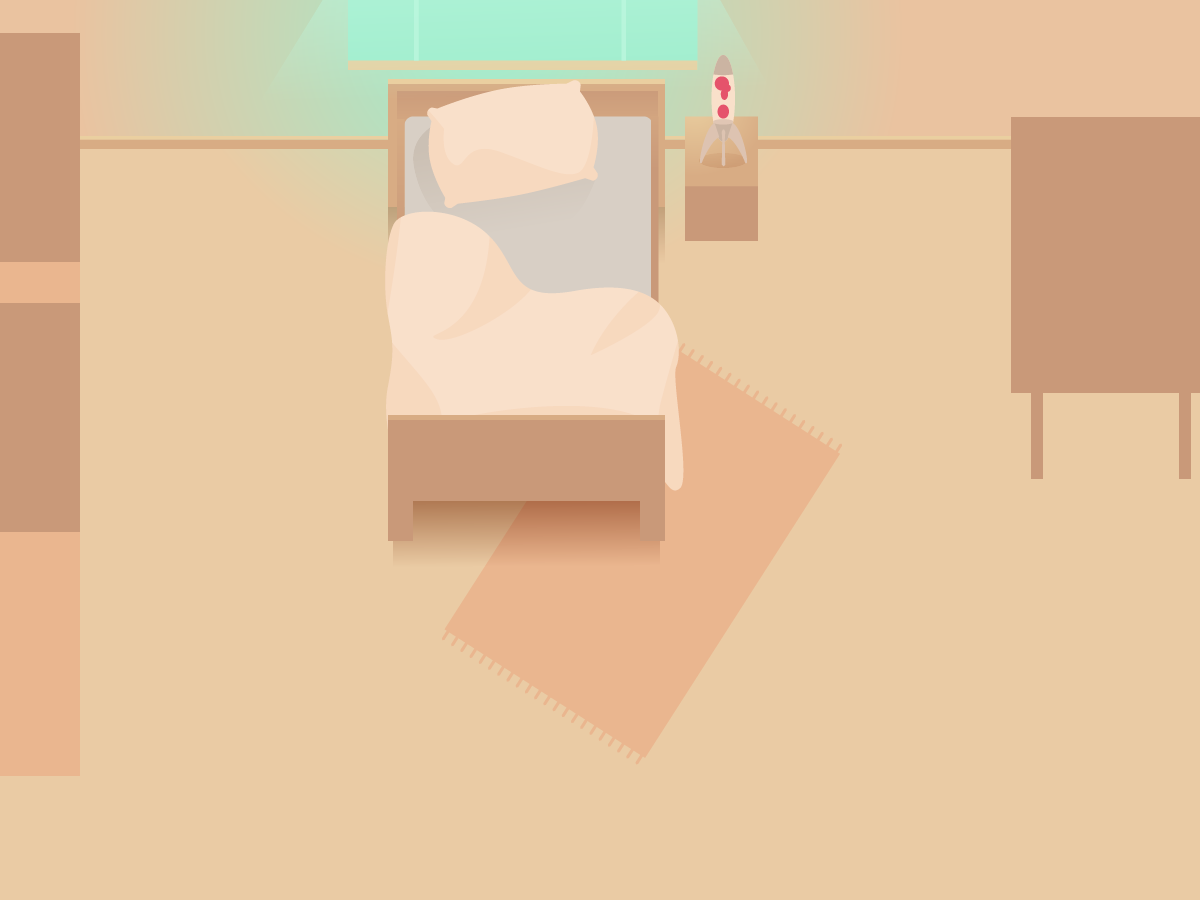
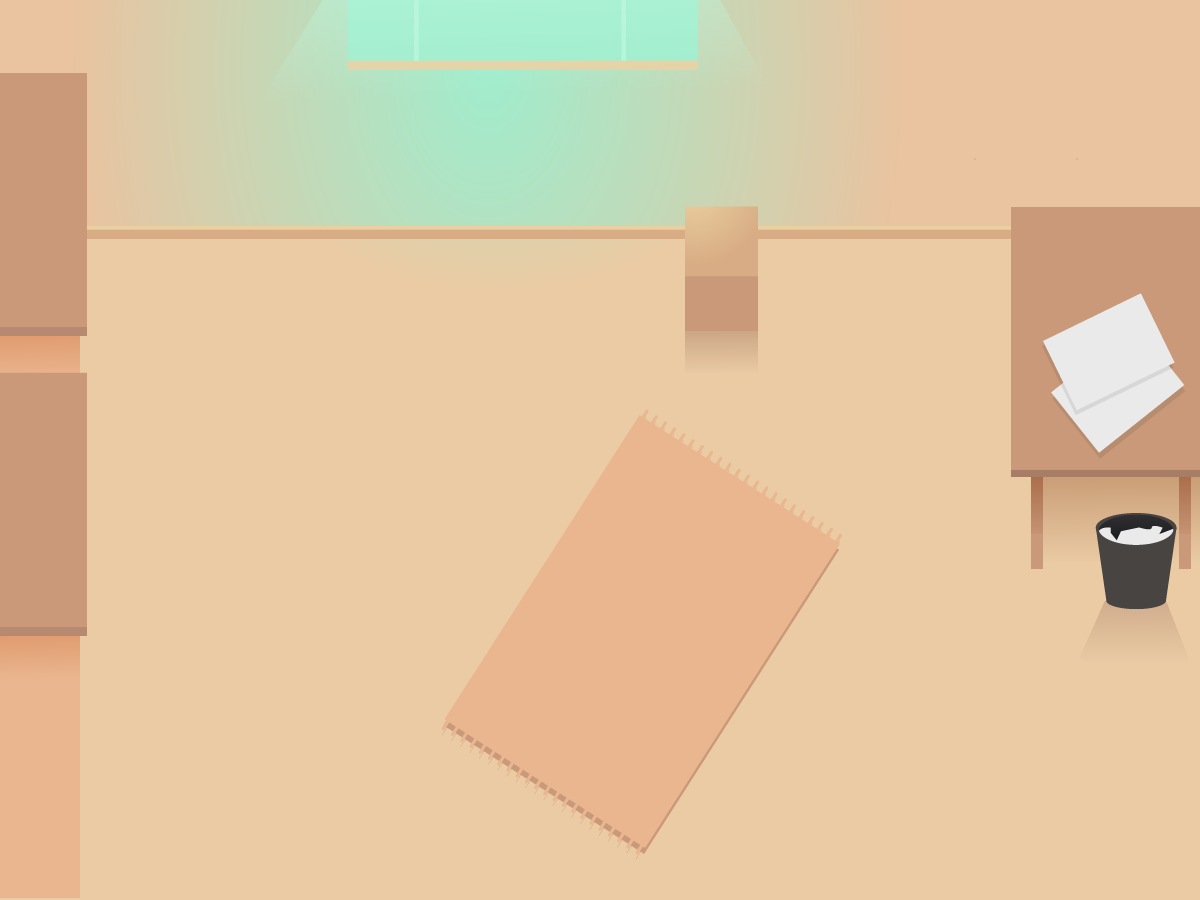
badroom

diff --git a/src/game/game_state/Preload.ts b/src/game/game_state/Preload.ts
@@ -73,18 +73,17 @@ export default class Preload extends Phaser.State {
     this.game.load.image('shadow', 'src/assets/images/shadow.png');
     this.game.load.image('logo', 'src/assets/images/logo1.png');
     this.game.load.spritesheet('tshirt', 'src/assets/images/tshirt.jpg', 679, 724);
-    this.game.load.spritesheet('lamp-lava', 'src/assets/images/lamp-lava.jpg', 600, 600);
-    this.game.load.spritesheet('lamp-lava', 'src/assets/images/lamp-lava.jpg', 600, 600);
+    this.game.load.spritesheet('lamp-lava', 'src/assets/images/lamp.png', 48, 121);
     this.game.load.spritesheet('office', 'src/assets/images/office.jpg', 680, 680);
-    this.game.load.spritesheet('chair', 'src/assets/images/chair.png', 500, 500);
-    this.game.load.spritesheet('basket', 'src/assets/images/basket.jpeg', 283, 178);
-    this.game.load.spritesheet('playboy_magazine', 'src/assets/images/playboy_magazine.jpg', 670, 978);
-    this.game.load.spritesheet('britney_poster', 'src/assets/images/britney_poster.jpg', 210, 230);
-    this.game.load.spritesheet('bed', 'src/assets/images/bed.jpg', 680, 680);
+    this.game.load.spritesheet('chair', 'src/assets/images/chair.png', 202, 343);
+    this.game.load.spritesheet('basket', 'src/assets/images/basket.png', 145, 103);
+    this.game.load.spritesheet('playboy_magazine', 'src/assets/images/playboy.png', 179, 180);
+    this.game.load.spritesheet('britney_poster', 'src/assets/images/poster.png', 108, 155);
+    this.game.load.spritesheet('bed', 'src/assets/images/bed.png', 325, 490);
     this.game.load.spritesheet('game_boy', 'src/assets/images/game_boy.jpeg', 225, 225);
-    this.game.load.spritesheet('pokemon_card', 'src/assets/images/pokemon_card.jpeg', 225, 225);
+    this.game.load.spritesheet('pokemon_card', 'src/assets/images/cards.png', 69, 70);
     this.game.load.spritesheet('mario_figurine', 'src/assets/images/mario_figurine.jpeg', 180, 280);
-    this.game.load.spritesheet('underpants', 'src/assets/images/underpants.jpeg', 225, 225);
+    this.game.load.spritesheet('underpants', 'src/assets/images/underpants.png', 112, 108);
 
     this.game.load.spritesheet('multiplayer-btn', 'src/assets/images/multiplayer-btn.png', 74, 13);
     this.game.load.spritesheet('hud-background', 'src/assets/images/hud-background.png', 300, 18);

diff --git a/src/game/game_state/PlayerRoom.ts b/src/game/game_state/PlayerRoom.ts
@@ -60,37 +60,37 @@ export default class PlayerRoom extends Phaser.State {
     const tshirt = new Tshirt(this.wallet, this, 35, 70);
     this.itemsToSell.add(tshirt);
 
-    const britneyPoster = new BritneyPoster(this.wallet, this, 70, 150);
+    const britneyPoster = new BritneyPoster(this.wallet, this, 840, 15);
     this.itemsToSell.add(britneyPoster);
 
-    const playboy = new Playboy(this.wallet, this, 1, 70);
+    const playboy = new Playboy(this.wallet, this, 109, 621);
     this.itemsToSell.add(playboy);
 
     const office = new Office(this.wallet, this, 1, 1);
     this.itemsToSell.add(office);
 
-    const basket = new Basket(this.wallet, this, 70, 1);
+    const basket = new Basket(this.wallet, this, 731, 624);
     this.itemsToSell.add(basket);
 
-    const lampLava = new Lamp(this.wallet, this, 1,120);
+    const lampLava = new Lamp(this.wallet, this, 701,139);
     this.itemsToSell.add(lampLava);
 
-    const chair = new Chair(this.wallet, this, 70, 90);
+    const chair = new Chair(this.wallet, this, 820, 188);
     this.itemsToSell.add(chair);
 
-    const bed = new Bed(this.wallet, this, 1, 300);
+    const bed = new Bed(this.wallet, this, 363 , 169);
     this.itemsToSell.add(bed);
 
     const gameBoy = new GameBoy(this.wallet, this, 130, 70);
     this.itemsToSell.add(gameBoy);
 
-    const pokemonCard = new PokemonCard(this.wallet, this, 130, 100);
+    const pokemonCard = new PokemonCard(this.wallet, this, 1, 116);
     this.itemsToSell.add(pokemonCard);
 
     const marioFigurine = new MarioFigurine(this.wallet, this, 130, 300);
     this.itemsToSell.add(marioFigurine);
 
-    const underpants = new Underpants(this.wallet, this, 180, 180);
+    const underpants = new Underpants(this.wallet, this, 720, 330);
     this.itemsToSell.add(underpants);
   }
 

diff --git a/src/game/game_state/Items/BritneyPoster.ts b/src/game/game_state/Items/BritneyPoster.ts
@@ -7,7 +7,6 @@ export default class BritneyPoster extends ItemToSell{
         this.price = 5;
         if (!this.sold) {
             this.sprite = game.add.sprite(this.x, this.y, 'britney_poster');
-            this.sprite.scale.setTo(0.5, 0.5);
             this.sprite.inputEnabled = true;
             this.sprite.events.onInputDown.add(this.sell, this);
         }

diff --git a/src/game/game_state/Items/Playboy.ts b/src/game/game_state/Items/Playboy.ts
@@ -7,7 +7,6 @@ export default class Playboy extends ItemToSell{
         this.price = 3;
         if (!this.sold) {
             this.sprite = game.add.sprite(this.x, this.y, 'playboy_magazine');
-            this.sprite.scale.setTo(0.05, 0.05);
             this.sprite.inputEnabled = true;
             this.sprite.events.onInputDown.add(this.sell, this);
         }

diff --git a/src/game/game_state/Items/PokemonCard.ts b/src/game/game_state/Items/PokemonCard.ts
@@ -8,7 +8,6 @@ export default class PokemonCard extends ItemToSell {
         this.price = 12;
         if (!this.sold) {
             this.sprite = game.add.sprite(this.x, this.y, 'pokemon_card');
-            this.sprite.scale.setTo(0.1, 0.1);
             this.sprite.inputEnabled = true;
             this.sprite.events.onInputDown.add(this.sell, this);
         }

diff --git a/src/game/game_state/Items/Underpants.ts b/src/game/game_state/Items/Underpants.ts
@@ -7,7 +7,6 @@ export default class Underpants extends ItemToSell{
         this.price = 3;
         if (!this.sold) {
             this.sprite = game.add.sprite(this.x, this.y, 'underpants');
-            this.sprite.scale.setTo(0.3, 0.3);
             this.sprite.inputEnabled = true;
             this.sprite.events.onInputDown.add(this.sell, this);
         }

diff --git a/src/game/game_state/Items/Lamp.ts b/src/game/game_state/Items/Lamp.ts
@@ -7,7 +7,6 @@ export default class Lamp extends ItemToSell{
         this.price = 12;
         if (!this.sold) {
             this.sprite = game.add.sprite(this.x, this.y, 'lamp-lava');
-            this.sprite.scale.setTo(0.1, 0.1);
             this.sprite.inputEnabled = true;
             this.sprite.events.onInputDown.add(this.sell, this);
         }

diff --git a/src/game/game_state/Items/Basket.ts b/src/game/game_state/Items/Basket.ts
@@ -7,7 +7,6 @@ export default class Basket extends ItemToSell{
         this.price = 70;
         if (!this.sold) {
             this.sprite = game.add.sprite(this.x, this.y, 'basket');
-            this.sprite.scale.setTo(0.3, 0.3);
             this.sprite.inputEnabled = true;
             this.sprite.events.onInputDown.add(this.sell, this);
         }

diff --git a/src/game/game_state/Items/Chair.ts b/src/game/game_state/Items/Chair.ts
@@ -7,7 +7,6 @@ export default class Chair extends ItemToSell{
         this.price = 12;
         if (!this.sold) {
             this.sprite = game.add.sprite(this.x, this.y, 'chair');
-            this.sprite.scale.setTo(0.1, 0.1);
             this.sprite.inputEnabled = true;
             this.sprite.events.onInputDown.add(this.sell, this);
         }

diff --git a/src/game/game_state/Items/Bed.ts b/src/game/game_state/Items/Bed.ts
@@ -7,7 +7,6 @@ export default class Bed extends ItemToSell{
         this.price = 300;
         if (!this.sold) {
             this.sprite = game.add.sprite(this.x, this.y, 'bed');
-            this.sprite.scale.setTo(0.8, 0.8);
             this.sprite.inputEnabled = true;
             this.sprite.events.onInputDown.add(this.sell, this);
         }
